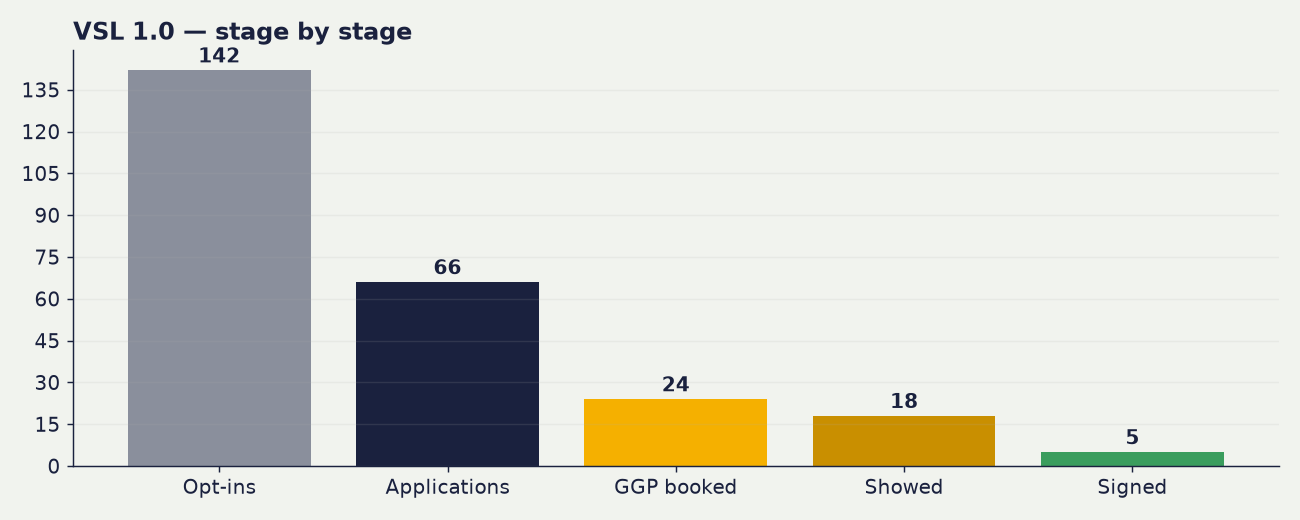
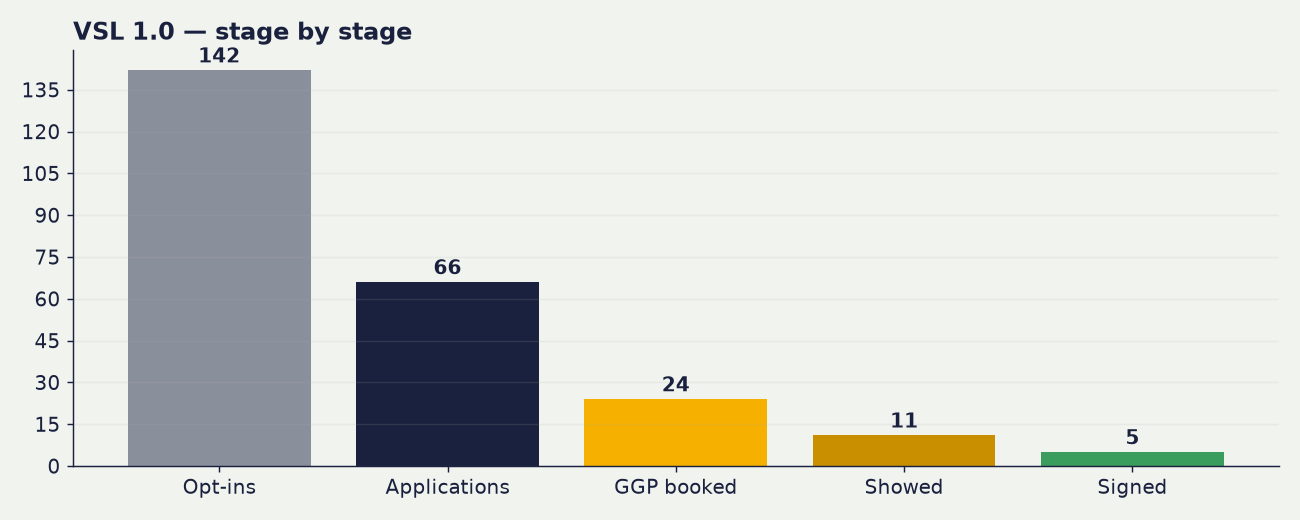
nightly dashboard update 2026-09-08 08:34

Changed region(s): [[0.6154, 0.7385, 0.7692, 0.8615]]

diff --git a/content/index.md b/content/index.md
@@ -1,13 +1,13 @@
 # 📈 VSL Funnel Dashboard
 
-_Signups from Stripe (live API). Show-ups from the SBC team Tick Sheet. Spend from Meta. Updated 8 Sep 2026, 07:53 BST, rebuilds nightly._
+_Signups from Stripe (live API). Show-ups from the SBC team Tick Sheet. Spend from Meta. Updated 8 Sep 2026, 08:34 BST, rebuilds nightly._
 
 ## 🎯 The headline — both funnels combined
 
 | | |
 |---|---|
 | **Blended CPA** | **£518** |
-| Total spend | **£3,625.60** |
+| Total spend | **£3,625.81** |
 | Total signups | **7** |
 | Who signed | Conor, Harry, Joe Gray-Misiuk, Kirstie Hall, Musa Rahat, Tarik Merrett, Zeeshan Ahmed |
 
@@ -21,8 +21,8 @@ _Signups from Stripe (live API). Show-ups from the SBC team Tick Sheet. Spend fr
 |---|---|---|---|
 | 🎯 **CPA** | **£614** | **£278** | **£518** |
 | 🤝 Signed | 5 | 2 | **7** |
-| 💷 Spent | £3,069.17 | £556.43 | **£3,625.60** |
-| ✅ Showed up | 18 | 2 | **20** |
+| 💷 Spent | £3,069.38 | £556.43 | **£3,625.81** |
+| ✅ Showed up | 11 | 2 | **13** |
 | 📞 GGPs booked | 24 | 2 | **26** |
 | 📝 Applications | 66 | 4 | **70** |
 | 👀 Opt-ins | 142 | 11 | **153** |
@@ -39,11 +39,11 @@ _Signups from Stripe (live API). Show-ups from the SBC team Tick Sheet. Spend fr
 
 | Metric | 🇬🇧🇮🇪 UK & Ireland | 🇺🇸🇨🇦 US & Canada | Total |
 |---|---|---|---|
-| 💷 Spent | £2,864.10 | £205.07 | **£3,069.17** |
+| 💷 Spent | £2,864.10 | £205.28 | **£3,069.38** |
 | 👀 Opt-ins | 110 | 28 | **142** |
 | 📝 Applications | 57 | 9 | **67** |
 | 📞 GGPs booked | 20 | 4 | **25** |
-| ✅ Showed up | 14 | 3 | **18** |
+| ✅ Showed up | 11 | 0 | **11** |
 | 🤝 Signed | 5 | 0 | **5** |
 
 **Rates**
@@ -52,8 +52,8 @@ _Signups from Stripe (live API). Show-ups from the SBC team Tick Sheet. Spend fr
 |---|---|---|---|
 | Opt-in → Application | 52% | 32% | **47%** |
 | Application → GGP booked | 35% | 44% | **37%** |
-| GGP show rate | 70% | 75% | **72%** |
-| Show → Sign | 36% | 0% | **28%** |
+| GGP show rate | 55% | 0% | **44%** |
+| Show → Sign | 45% | 0% | **45%** |
 | Application → Sign | 9% | 0% | **7%** |
 
 **Costs**
@@ -62,15 +62,15 @@ _Signups from Stripe (live API). Show-ups from the SBC team Tick Sheet. Spend fr
 |---|---|---|---|
 | Cost per application | £50 | £23 | **£46** |
 | Cost per GGP booked | £143 | £51 | **£123** |
-| Cost per show-up | £205 | £68 | **£171** |
+| Cost per show-up | £260 | — | **£279** |
 | **Cost per acquisition (CPA)** | **£573** | **—** | **£614** |
 
 **Ad spend split**
 
 | Band | 🇬🇧🇮🇪 UK & Ireland | 🇺🇸🇨🇦 US & Canada | Total |
 |---|---|---|---|
-| 🔥 Warm | £1,653.44 | £103.21 | **£1,756.65** |
-| ❄ Cold | £1,210.66 | £101.86 | **£1,312.52** |
+| 🔥 Warm | £1,653.44 | £103.23 | **£1,756.67** |
+| ❄ Cold | £1,210.66 | £102.05 | **£1,312.71** |
 
 > 🤝 Signed — Joe Gray-Misiuk, Kirstie Hall, Musa Rahat, Tarik Merrett, Zeeshan Ahmed
 
@@ -135,4 +135,4 @@ _Signups from Stripe (live API). Show-ups from the SBC team Tick Sheet. Spend fr
 > _Applications + GGP-booked are TRUE daily series (from submission timestamps). Opt-ins have no per-day source in the Opt-ins tab, so opt-ins appear as a total only, not a daily line._
 
 ---
-<!-- Auto-generated by the VSL dashboard nightly pipeline. Do not edit by hand. 8 Sep 2026, 07:53 BST -->
+<!-- Auto-generated by the VSL dashboard nightly pipeline. Do not edit by hand. 8 Sep 2026, 08:34 BST -->
